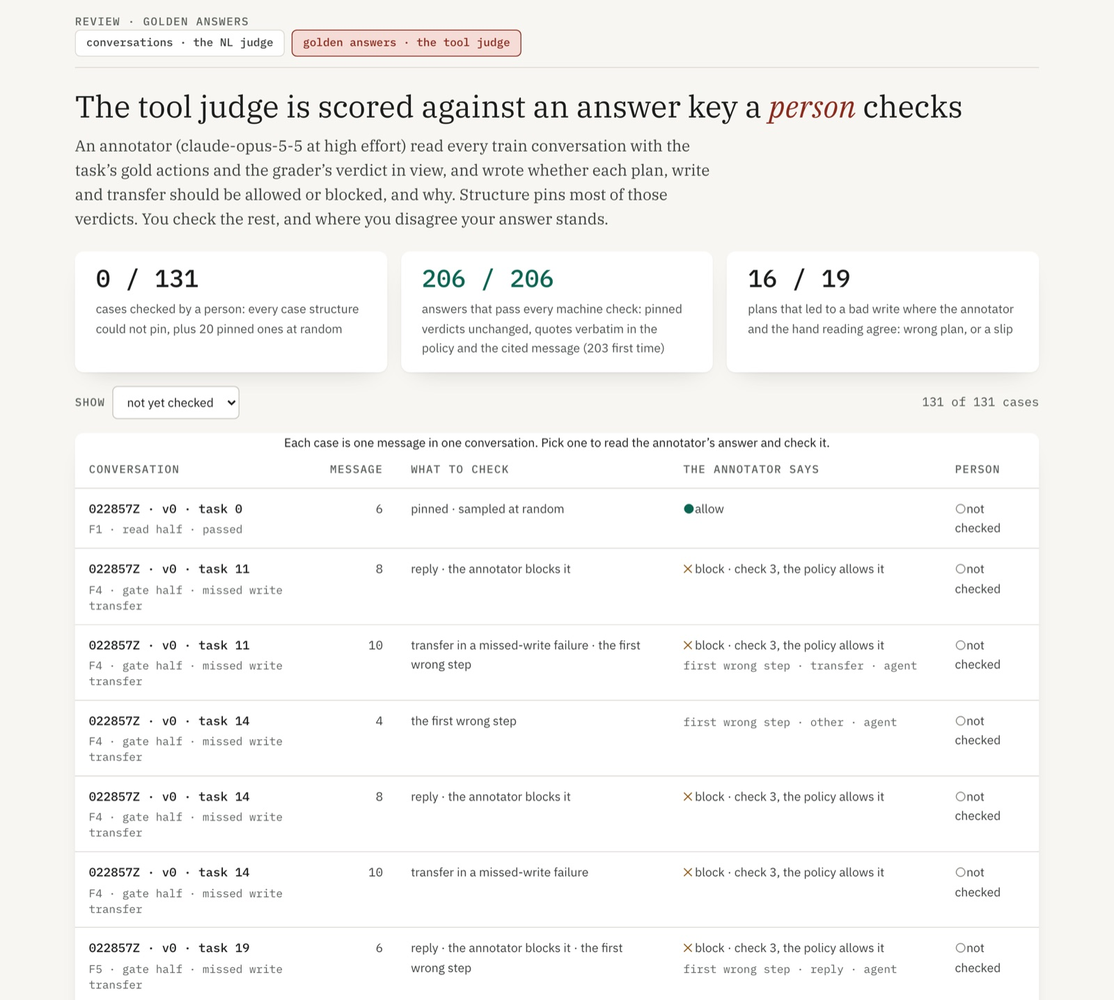
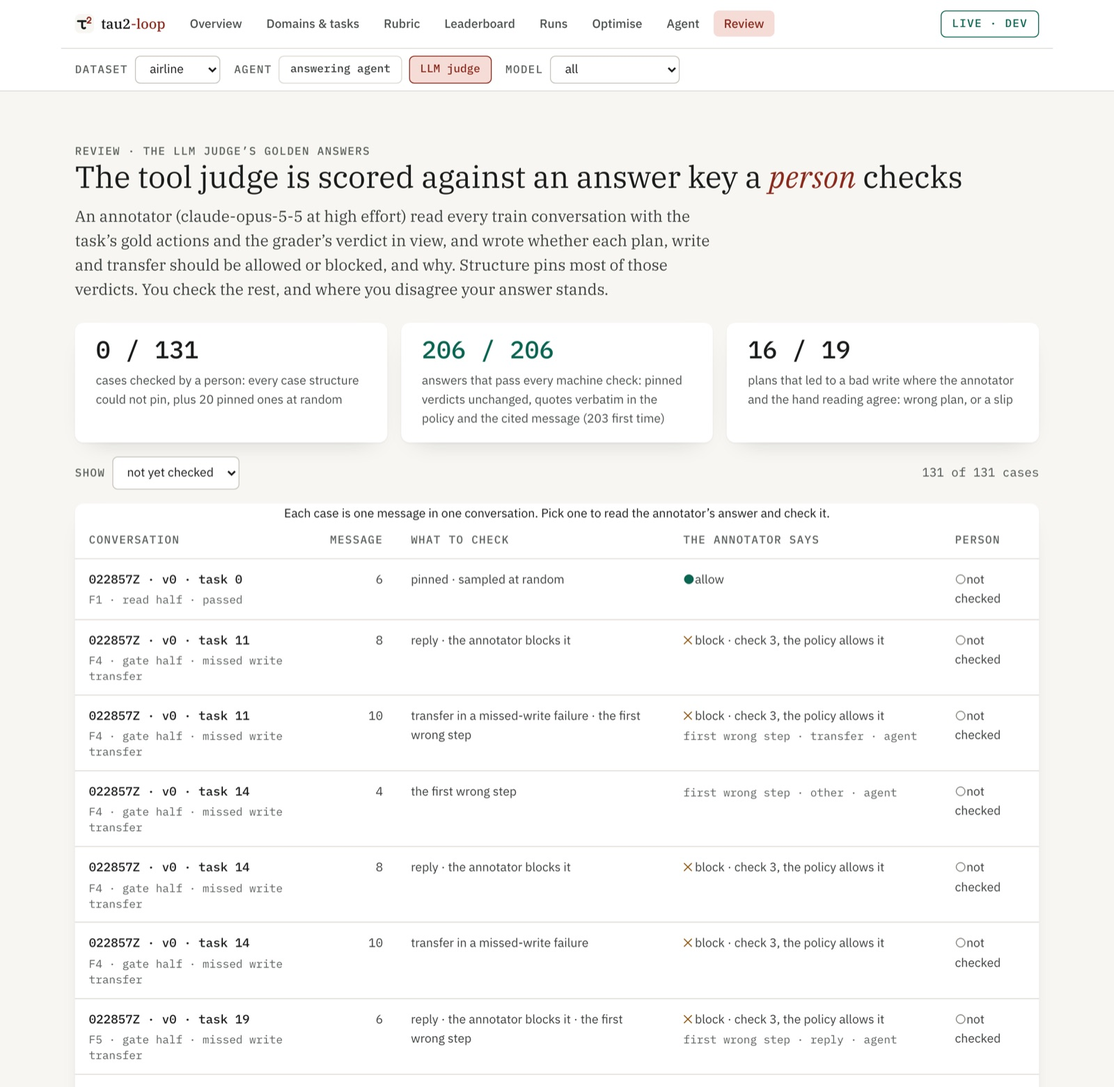
docs(s11): §0 adds the scope bar, the judge's bar and J3's first round
The plan page's §0 gains the scope bar and Evals (Figs B9–B12a), the LLM
judge's own purple bar in a conversation (B12b, B6 re-shot), the Runs table
that fits (B11 re-shot) and J3 · one round: the ledger, the 10 lessons and
the gate's pairs (B14–B16), with Fig B13's new rows for a cycle's cost and
the sweep not yet run. AGENTS.md's layout and commands now list the tool
judge: data/judge/, judges/, judge_runs/, tooljudge/ and the judge-* targets.

diff --git a/.lavish/s11_tool-judge-plan.html b/.lavish/s11_tool-judge-plan.html
@@ -249,7 +249,7 @@ ul.facts b{color:var(--ink)}
 </style>
 </head>
 <body>
-<header class="top"><div class="in"><b>tau2-loop</b><span class="muted small">s11 · the tool judge</span><span class="label">plan · decided 2026-10-01 · J0–J2 built · branch tool-judge</span></div></header>
+<header class="top"><div class="in"><b>tau2-loop</b><span class="muted small">s11 · the tool judge</span><span class="label">plan · decided 2026-10-01 · J0–J2 built · one J3 round · branch tool-judge</span></div></header>
 <main>
 <p class="label">Plan · airline first · an independent judge on the agent's tool calls</p>
 <h1>A plan judge checks each plan before the user agrees, proven on <em>replays</em> first</h1>
@@ -260,15 +260,15 @@ ul.facts b{color:var(--ink)}
 </nav>
 
 <section id="s0">
-<h2>0 · Built — J0 to J2 ran; untuned j1 misses every bar</h2>
+<h2>0 · Built — J0 to J2 ran; one J3 round held j2</h2>
 <p>You asked for J0, J1 and J2 built for review, each landing in the viewer. All three ran on train, with no new conversation. The screenshots are the real viewer (<code>make dev</code>, then <code>npm run dev</code>), taken from the committed files below.</p>
 <span class="label fig-title">Fig B1 · the three slices: what ran, what came back, where it shows</span>
 <div class="tw"><table>
 <thead><tr><th>slice</th><th>ran</th><th>came back</th><th>done when</th><th>in the viewer</th></tr></thead>
 <tbody>
 <tr><td class="sub">J0 · labels<span class="path">make judge-labels</span></td><td class="wrap">No model call. <code>tooljudge/labels.py</code> labels every checkpoint from gold and writes <code>data/judge/airline.json</code></td><td class="wrap">206 conversations (151 passed), 102 plans (83 right, 15 wrong, 4 slips), 141 writes (117 good, 20 bad, 4 errored), 517 trigger fires, Fig 12's five folds, and 31 synthetic positives</td><td class="v-ok">met: every count on this page reproduced, pinned by a test</td><td class="wrap">Runs › a conversation: each checkpoint carries its label (Fig B2)</td></tr>
-<tr><td class="sub">J1 · golden answers<span class="path">make judge-gold</span></td><td class="wrap">209 sealed calls to Opus 5.5 at high effort, one per conversation (3 asked twice). Output schema-enforced; Fig 15's machine checks ran on every answer</td><td class="wrap">206 of 206 answers pass every machine check (203 first time). On the 19 plans that led to a bad write, the annotator agrees with my hand reading on 16 of 19, and calls 3 of my 15 wrong plans slips</td><td class="v-warn">half met: the machine checks pass; the person's review (≥ 90% agreement on 131 cases) is yours to do</td><td class="wrap">Review › golden answers: the queue and each case (Figs B3, B4); the golden answer on each conversation</td></tr>
-<tr><td class="sub">J2 · first verdicts<span class="path">make judge-probe · make judge-replay</span></td><td class="wrap">The probe: <code>output_format</code> holds under the sealed core (SDK 0.2.160). Then 548 calls to Sonnet 5 at medium: all 517 trigger fires plus the 31 synthetic positives</td><td class="wrap">0 of 548 failed open. Gate half: balanced accuracy 0.41 against §9's 0.73; 10 of 55 passes interrupted against a bar of 2; 0 of 3 wrong plans stopped against 2 of 4</td><td class="v-ok">met: every checkpoint has the judge's answer beside its golden answer, with verdict and reason agreement recorded</td><td class="wrap">Verdict lines on each conversation (Figs B5, B6); Optimise › judge loop with the bar and the disagreements (Figs B7, B8)</td></tr>
+<tr><td class="sub">J1 · golden answers<span class="path">make judge-gold</span></td><td class="wrap">209 sealed calls to Opus 5.5 at high effort, one per conversation (3 asked twice). Output schema-enforced; Fig 15's machine checks ran on every answer</td><td class="wrap">206 of 206 answers pass every machine check (203 first time). On the 19 plans that led to a bad write, the annotator agrees with my hand reading on 16 of 19, and calls 3 of my 15 wrong plans slips</td><td class="v-warn">half met: the machine checks pass; the person's review (≥ 90% agreement on 131 cases) is yours to do</td><td class="wrap">Review with the LLM judge: the golden-answers queue and each case (Figs B3, B4); the golden answer on each conversation</td></tr>
+<tr><td class="sub">J2 · first verdicts<span class="path">make judge-probe · make judge-replay</span></td><td class="wrap">The probe: <code>output_format</code> holds under the sealed core (SDK 0.2.160). Then 548 calls to Sonnet 5 at medium: all 517 trigger fires plus the 31 synthetic positives</td><td class="wrap">0 of 548 failed open. Gate half: balanced accuracy 0.41 against §9's 0.73; 10 of 55 passes interrupted against a bar of 2; 0 of 3 wrong plans stopped against 2 of 4</td><td class="v-ok">met: every checkpoint has the judge's answer beside its golden answer, with verdict and reason agreement recorded</td><td class="wrap">Verdict lines on each conversation (Figs B5, B6); Optimise with the LLM judge: the bar and the disagreements (Figs B7, B8)</td></tr>
 </tbody></table></div>
 <p class="cap">Fig 26 had Optimise's judge view arriving with J3. It arrives here, because J2's bar and disagreements are what you review next. J3 adds its ledger to the same page.<span class="path">data/judge/airline.json · data/judge/airline_gold.jsonl · data/judge/airline_gold_summary.json · data/judge/probe.json · judge_runs/20261001T041215Z_airline_j1_train/</span></p>
 
@@ -292,7 +292,7 @@ ul.facts b{color:var(--ink)}
 </div>
 <div class="shots2">
 <div><span class="label fig-title">Fig B3 · Review › golden answers: the queue</span>
-<figure class="shot"><a href="s11_shots/j1_queue.jpg" target="_blank" rel="noopener" title="open full size"><img src="s11_shots/j1_queue.jpg" alt="The Review tab with a second chip, golden answers, the tool judge. Headline: the tool judge is scored against an answer key a person checks. Cards: 0 of 131 cases checked; 206 of 206 answers pass every machine check, 203 first time; 16 of 19 plans where the annotator and the hand reading agree. Below, the queue: each row a conversation, a message, what to check, and the annotator's verdict." loading="lazy" width="1600" height="1437"></a></figure></div>
+<figure class="shot"><a href="s11_shots/j1_queue.jpg" target="_blank" rel="noopener" title="open full size"><img src="s11_shots/j1_queue.jpg" alt="The Review tab with the scope bar on the LLM judge. Headline: the tool judge is scored against an answer key a person checks. Cards: 0 of 131 cases checked; 206 of 206 answers pass every machine check, 203 first time; 16 of 19 plans where the annotator and the hand reading agree. Below, the queue: each row a conversation, a message, what to check, and the annotator's verdict." loading="lazy" width="1600" height="1562"></a></figure></div>
 <div><span class="label fig-title">Fig B4 · one case open: task 44's plan, with Agree and Correct it</span>
 <figure class="shot"><a href="s11_shots/j1_case.jpg" target="_blank" rel="noopener" title="open full size"><img src="s11_shots/j1_case.jpg" alt="A case card: Check, plan, wrong or a slip, the first wrong step. Message 9 cited as evidence, then message 34. The annotator says block, check 3, the policy allows it; rule: the user has travel insurance and the reason for cancellation is covered by insurance; evidence quotes; the fix it would send; first wrong step at message 34, blamed on the agent. Then a solid Agree button and an underlined Correct it link." loading="lazy" width="1600" height="2125"></a></figure></div>
 </div>
@@ -309,17 +309,80 @@ ul.facts b{color:var(--ink)}
 <div class="shots2">
 <div><span class="label fig-title">Fig B5 · Runs › a conversation, after J2: label, golden answer and judge, checkpoint by checkpoint</span>
 <figure class="shot"><a href="s11_shots/j2_trace_panel.jpg" target="_blank" rel="noopener" title="open full size"><img src="s11_shots/j2_trace_panel.jpg" alt="The Tool judge section of task 44's conversation. Heading: the judge misses the first wrong step, message 34. A golden-answer card with the annotator's summary and the first wrong step. A table of six checkpoints with columns J0 label, golden answer, plan judge: message 34, plan, wrong, block, allow, differs; message 38, plan, right, allow, allow, agrees; the four writes are not its checkpoint." loading="lazy" width="1600" height="1125"></a></figure></div>
-<div><span class="label fig-title">Fig B6 · the same plan in the conversation: three lines, one per slice</span>
-<figure class="shot"><a href="s11_shots/j2_trace_marks.jpg" target="_blank" rel="noopener" title="open full size"><img src="s11_shots/j2_trace_marks.jpg" alt="Message 34 with three dashed lines under it: the J0 label, plan wrong, the first wrong step; the golden answer, block, check 3, with its policy rule, the golden first wrong step; plan judge j1, allow, with its reason that the cancellation reason has not been obtained, a block turned into a note because the rule is not verbatim in the policy, confidence 0.72, differs from the golden answer." loading="lazy" width="1600" height="2312"></a></figure></div>
+<div><span class="label fig-title">Fig B6 · the same plan in the conversation: the judge's own bar, one line per slice</span>
+<figure class="shot"><a href="s11_shots/j2_trace_marks.jpg" target="_blank" rel="noopener" title="open full size"><img src="s11_shots/j2_trace_marks.jpg" alt="The end of the answering agent's message 34, and under it, indented, a purple bar labelled LLM judge, plan judge j1, on message 34. Its first line is the verdict: allow, with its reason that the cancellation reason has not been obtained, a block turned into a note because the rule is not verbatim in the policy, confidence 0.72, differs from the golden answer. Then the golden answer: block, check 3, with its policy rule, the golden first wrong step. Last, the J0 label: plan, wrong, led to the write at message 36, the first wrong step." loading="lazy" width="1600" height="620"></a></figure></div>
 </div>
 <p class="cap">The judge saw task 44's flaw: its reason says the plan offers a cancellation before the reason is known. It blocked at confidence 0.72, but quoted the policy with an ellipsis, so the rule check turned the block into a note. This is the line the mocks in Fig 22 drew, now from a real replay.<span class="path">frontend/src/lib/judge.tsx (<code>GoldLine</code>, <code>VerdictLine</code>, <code>JudgePanel</code>) · judge_runs/20261001T041215Z_airline_j1_train/verdicts.jsonl</span></p>
 <span class="label fig-title">Fig B7 · Optimise › judge loop: j1 against every §9 bar, gate half first</span>
-<figure class="shot"><a href="s11_shots/j2_loop.jpg" target="_blank" rel="noopener" title="open full size"><img src="s11_shots/j2_loop.jpg" alt="The judge loop page. Headline: on the gate half, the plan judge stops 0 of 3 wrong plans and interrupts 10 of 55 passes. Cards for labels, golden answers and plan judge j1. The bar table: balanced accuracy 0.41 against 0.73, misses; passes interrupted 10 of 55, misses; wrong plans stopped 0 of 3, misses; right plans blocked 4 of 41; flagged replies blocked in passes 11 of 112; wrong plans blocked 0 of 4; reason agreement 2 of 5; synthetic positives 17 of 20; blocks turned into notes; failed open 0 of 212." loading="lazy" width="1600" height="1453"></a></figure>
+<figure class="shot"><a href="s11_shots/j2_loop.jpg" target="_blank" rel="noopener" title="open full size"><img src="s11_shots/j2_loop.jpg" alt="The judge loop page, under the scope bar set to airline and the LLM judge. Headline: on the gate half, the plan judge stops 0 of 3 wrong plans and interrupts 10 of 55 passes. Cards for labels, golden answers and plan judge j1. The bar table: balanced accuracy 0.41 against 0.73, misses; passes interrupted 10 of 55, misses; wrong plans stopped 0 of 3, misses; right plans blocked 4 of 41; flagged replies blocked in passes 11 of 112; wrong plans blocked 0 of 4; reason agreement 2 of 5; synthetic positives 17 of 20; blocks turned into notes; failed open 0 of 212." loading="lazy" width="1600" height="2500"></a></figure>
 <span class="label fig-title">Fig B8 · the disagreements J3's optimiser will read (its half only)</span>
 <figure class="shot"><a href="s11_shots/j2_disagree.jpg" target="_blank" rel="noopener" title="open full size"><img src="s11_shots/j2_disagree.jpg" alt="The disagreements table: 96 checkpoints where the judge and the golden answer differ, each with its conversation as a link, message, checkpoint kind and label, golden verdict, judge verdict and the judge's reason, mostly blocks of replies that claim a technical difficulty in v0's passing conversations." loading="lazy" width="1600" height="1500"></a></figure>
 <p class="cap">Every number is scored live against the golden answers as they stand, so the page moves when your review is frozen. Each disagreement opens its conversation.<span class="path">frontend/src/pages/JudgeLoop.tsx · GET /api/judge/airline · judge_runs/*/verdicts.jsonl</span></p>
 
-<span class="label fig-title">Fig B9 · where the build differs from this plan</span>
+<h3 id="b-scope">The scope bar — two agents, one dataset and model filter, every tab</h3>
+<p>From your review: Domains &amp; tasks is now <b>Evals</b> (<code>/evals/&lt;dataset&gt;</code>; old addresses redirect), and the viewer opens with three filters under the tabs. They are <b>dataset</b>, <b>agent</b> (the answering agent, or the LLM judge, because they are two separate agents) and <b>model</b>. Every tab honours them, and each tab link carries them, so moving between tabs keeps the scope. The bar reads its values back from each tab's own address, so a shared link carries the scope too. The domain chips and loop chips the pages had before are gone; the bar replaces them.</p>
+<span class="label fig-title">Fig B9 · what each tab shows, by agent</span>
+<div class="tw"><table>
+<thead><tr><th>tab</th><th>answering agent</th><th>LLM judge</th><th>model filters</th></tr></thead>
+<tbody>
+<tr><td class="sub">Evals<span class="path">was Domains &amp; tasks</span></td><td class="wrap">the eval set it is scored on: every task of the dataset and its answer key</td><td class="wrap">the eval set it is scored on: the train conversations, the 517 checkpoints with golden answers, the folds and halves, the synthetic positives (Fig B12a)</td><td class="wrap">for the judge, the conversations that model wrote; tasks have no model</td></tr>
+<tr><td class="sub">Runs</td><td class="wrap">its eval runs under <code>runs/</code></td><td class="wrap">the judge's replays under <code>judge_runs/</code>, scored live (Fig B11)</td><td class="wrap">the runs, or the replays, on that model</td></tr>
+<tr><td class="sub">Optimise</td><td class="wrap">the agent loop: versions, rounds, the gate</td><td class="wrap">the judge loop: the bar and the disagreements (Fig B10)</td><td class="wrap">rounds whose challenger ran on it; the judge's replays on it</td></tr>
+<tr><td class="sub">Agent</td><td class="wrap">the agent graph of the version, the champion if it fits the model</td><td class="wrap">the judge as an agent: the two side by side, its rubric and config (Fig B12)</td><td class="wrap">which version opens</td></tr>
+<tr><td class="sub">Review</td><td class="wrap">its scored conversations, against the NL judge</td><td class="wrap">the golden answers a person checks</td><td class="wrap">the runs in the picker</td></tr>
+<tr><td class="sub">Leaderboard</td><td class="wrap" colspan="2">the dataset only: the published board is about answering agents</td><td class="dim">—</td></tr>
+<tr><td class="sub">Overview · Rubric</td><td class="wrap" colspan="2">no filter: both pages cover every dataset. The bar hides, and the scope is kept for the next tab</td><td class="dim">—</td></tr>
+</tbody></table></div>
+<p class="cap">On a dataset with no judge yet, the LLM judge's views say so and name the command that starts it, rather than showing an empty frame.<span class="path">frontend/src/lib/scope.tsx (<code>scopeFromLocation</code>, <code>scopeHref</code>, <code>ScopeBar</code>) · src/lib/scope.test.ts · frontend/src/Shell.tsx</span></p>
+<div class="shots2">
+<div><span class="label fig-title">Fig B10 · Optimise, the same dataset, both agents</span>
+<figure class="shot"><a href="s11_shots/scope_optimise_answering.jpg" target="_blank" rel="noopener" title="open full size"><img src="s11_shots/scope_optimise_answering.jpg" alt="The viewer's header with the eight tabs, Optimise on, and under it the scope bar: dataset airline, agent with answering agent selected and LLM judge beside it, model all. Below, the answering agent's loop: the label The loop, the answering agent, and the headline about diagnoses, diffs and verdicts." loading="lazy" width="1600" height="950"></a></figure>
+<figure class="shot"><a href="s11_shots/scope_optimise_judge.jpg" target="_blank" rel="noopener" title="open full size"><img src="s11_shots/scope_optimise_judge.jpg" alt="The same header and scope bar with LLM judge selected. Below, the judge's loop: the label The loop, the LLM judge, airline, and the headline that on the gate half the plan judge stops 0 of 3 wrong plans and interrupts 10 of 55 passes." loading="lazy" width="1600" height="950"></a></figure></div>
+<div><span class="label fig-title">Fig B11 · Runs with the LLM judge: its replays</span>
+<figure class="shot"><a href="s11_shots/scope_runs_judge.jpg" target="_blank" rel="noopener" title="open full size"><img src="s11_shots/scope_runs_judge.jpg" alt="Runs with the scope bar on the LLM judge: the headline that a judge replay is a folder, every verdict at every checkpoint scored against the golden answers, and a table with the one replay: j1 on Sonnet 5 at medium, 517 checkpoints, gate-half balanced accuracy 0.41, passes interrupted 10 of 55, wrong plans stopped 0 of 3, synthetic positives blocked 25 of 31." loading="lazy" width="1600" height="875"></a></figure></div>
+<div><span class="label fig-title">Fig B12 · Agent with the LLM judge: two agents side by side</span>
+<figure class="shot"><a href="s11_shots/scope_agent_judge.jpg" target="_blank" rel="noopener" title="open full size"><img src="s11_shots/scope_agent_judge.jpg" alt="The Agent tab with the LLM judge: the headline that the LLM judge is a second agent that only reads, it never talks to the customer or calls a tool; a table comparing the answering agent, champion v3 on Sonnet 5, with the LLM judge, j1 on Sonnet 5: its job, what each reads and never reads, what each answers with, the loop that improves each, and its runs." loading="lazy" width="1600" height="1250"></a></figure></div>
+</div>
+<span class="label fig-title">Fig B12a · Evals, one dataset, two agents: tasks for one, conversations for the other</span>
+<div class="shots2">
+<figure class="shot"><a href="s11_shots/scope_evals_answering.jpg" target="_blank" rel="noopener" title="open full size"><img src="s11_shots/scope_evals_answering.jpg" alt="The Evals tab with the scope bar on airline and the answering agent: the headline that every base task is split in half once and the agent never sees a scenario or an expected action, then the task list with split, purpose, policies and counts of expected actions." loading="lazy" width="1600" height="1125"></a></figure>
+<figure class="shot"><a href="s11_shots/scope_evals_judge.jpg" target="_blank" rel="noopener" title="open full size"><img src="s11_shots/scope_evals_judge.jpg" alt="The Evals tab with the scope bar on airline and the LLM judge: the headline that the LLM judge is scored on 517 checkpoints in 206 train conversations, each with a golden answer; cards for 151 of 206 passed, 101 of 517 checkpoints that are plans, 56 of 517 golden blocks and 31 synthetic positives; the five folds with read and gate halves; then the conversations with their outcome, checkpoints, golden blocks and golden first wrong step." loading="lazy" width="1600" height="2125"></a></figure>
+</div>
+<p class="cap">The two agents share the same sealed core and nothing else. The answering agent's version and the judge's version, their models and their loops each have their own row in Fig B12. The judge page also shows <code>judge.md</code> and <code>judge.yaml</code> whole.<span class="path">frontend/src/pages/JudgeAgent.tsx · JudgeRuns.tsx · GET /api/judge/airline/versions · GET /api/judge/airline/replays</span></p>
+
+<h3 id="b-bar">The LLM judge's bar — its own purple message, under the one it reviews</h3>
+<p>From your review: the judge's lines sat inside the answering agent's message, so the two agents read as one voice. Now the judge speaks in a bar of its own, under the message it reviews. The bar is indented, purple, and labelled <b>LLM judge</b> with its version and the message number. The agent's messages are now labelled <b>answering agent</b>, the names the scope bar uses.</p>
+<ul class="small">
+<li><b>Order inside the bar.</b> The judge's verdict comes first, then the golden answer it is scored against, then J0's label.</li>
+<li><b>Where it is not asked.</b> At a checkpoint the plan judge never sees, such as a write, the bar says "not asked at this checkpoint".</li>
+<li><b>Purple is new here.</b> DESIGN.md's rule 7 banned it. It is now one recorded exception, <code>--judge</code>, for this bar only. Its light and dark values pass the contrast audit: 20 of 20 pairs, the lowest 5.18:1.</li>
+</ul>
+<span class="label fig-title">Fig B12b · v0 on task 11, message 6, dark theme: the judge blocks, the golden answer allows</span>
+<figure class="shot"><a href="s11_shots/judge_bar_dark.jpg" target="_blank" rel="noopener" title="open full size"><img src="s11_shots/judge_bar_dark.jpg" alt="Dark theme. The simulated user's message 5, then the answering agent's message 6 with a green edge, asking for the reservation id and saying it has difficulty accessing the tool. Under it, indented, a purple bar labelled LLM judge, plan judge j1, on message 6: verdict block, check 2, arguments trace to the transcript, with its rule and fix, confidence 0.85, differs from the golden answer; golden answer allow, a normal step; J0 label reply, unlabelled. Then the user's message 7." loading="lazy" width="1600" height="812"></a></figure>
+<p class="cap">The example from your review, <code>/runs/20260915T022857Z_airline_v0_train/11/t1</code>. The same bar holds at 390px, where it wraps under the message.<span class="path">frontend/src/lib/judge.tsx (<code>judgeMarks</code>) · frontend/src/pages/Trace.tsx (<code>EventList</code>) · frontend/src/tokens.css (<code>--judge</code>) · DESIGN.md §2 Colour · frontend/src/lib/judge.test.tsx</span></p>
+
+<h3 id="b-j3">J3 · one round — j2 held: gate 0.41 → 0.58, but fixed 6, broke 4</h3>
+<p>From your review: "run the judge for 1 round of optimisation". This is one cycle of §7's loop from j1. The model sweep did not run, so j1's model (Sonnet 5, medium) and threshold (0.5) carry over.</p>
+<div class="rule">
+<span class="k">ships</span><span class="v"><code>tooljudge/loop.py</code>: the bundle, built from the read half only; the fenced Opus 5.5 session, through <code>loop/optimiser.py</code>'s session machinery, which may write only <code>changes.json</code>; the lesson guards; the paired gate; and <code>judges/airline/plan/ledger.jsonl</code> and <code>registry.json</code>. Run it with <code>make judge-loop</code>. Beyond the agent loop's fence, the session may not read <code>judge_runs/</code>, <code>.lavish/</code> or the ledger, which all hold gate-half verdicts. Optimise › LLM judge now shows the ledger, the lessons linked to the disagreements behind them, both judges against §9's bars, and the gate's pairs.</span>
+<span class="k">ran</span><span class="v">The optimiser read 61 read-half disagreements: 36 false blocks, 22 misses and 3 synthetic positives let through. It took 17 turns, 4.4 minutes and 1.00M input tokens, and added 10 lessons. Then j2 was replayed on all 548 items: 8.10M input tokens, 5.76M of them cache reads, and 0 failed open.</span>
+<span class="k">a fix</span><span class="v">The quote guard refused lesson 4 for "it was booked within the last 24 hours". That is the policy's 24-hour rule as the agent restates it, in three conversations. The guard now counts a quote only when one conversation holds it, and reads "hrs" as "hours"; regression tests pin both. The same <code>changes.json</code> was re-checked with no new session. The ledger keeps the rejected line and the re-check.</span>
+<span class="k">found</span><span class="v">Read half, which the optimiser read: balanced accuracy 0.47 → 0.55; passes interrupted 25 → 9 of 96; 41 of the 61 disagreements now agree. Gate half, which it never read: 0.41 → 0.58; passes interrupted 10 → 9 of 55 (5 fixed, 4 broken); wrong plans stopped 0 → 1 of 3 (task 44); flagged replies blocked in passes 11 → 6 of 112; synthetic positives 17 → 19 of 20.</span>
+<span class="k">verdict</span><span class="v">Held. Balanced accuracy rose, but the paired test did not agree: fixed 6, broke 4, p = 0.377, where §7 needs p &lt; 0.05 or at least 2 fixes and no breaks. Neither judge meets any §9 bar. The champion stays j1, and j2 stays in <code>judges/</code> for the record.</span>
+<span class="k">MLflow</span><span class="v">In <code>tau2-loop/judge</code>: <code>airline_cycle1_j2</code> (<code>kind=judge-cycle</code>, one run for the rejected attempt and one for the re-check) and j2's replay (<code>kind=judge-replay</code>).</span>
+</div>
+<span class="label fig-title">Fig B14 · Optimise › LLM judge: the ledger, one row per attempt</span>
+<figure class="shot"><a href="s11_shots/j3_ledger.jpg" target="_blank" rel="noopener" title="open full size"><img src="s11_shots/j3_ledger.jpg" alt="The loop section headed: cycle 1 held j2, gate balanced accuracy 0.41 to 0.58. A paragraph on how a cycle works, ending: the champion now is j1. The ledger table has two rows for cycle 1, j1 to j2, 10 lessons added. The first was rejected because lesson 4 quotes a conversation. The second is a re-check: read half 0.47 to 0.55, 41 of 61 disagreements it read now agree, gate half 0.41 to 0.58, fixed 6 and broke 4 of 58, p 0.377, held, with the reason and a note that the same changes.json was re-checked after the quote guard fix." loading="lazy" width="1600" height="1106"></a></figure>
+<div class="shots2">
+<div><span class="label fig-title">Fig B15 · the 10 lessons, each linked to the disagreements it came from</span>
+<figure class="shot"><a href="s11_shots/j3_lessons.jpg" target="_blank" rel="noopener" title="open full size"><img src="s11_shots/j3_lessons.jpg" alt="What cycle 1 changed: 10 lessons added, under a folded disclosure with the optimiser's diagnosis. Lesson 1: a wrong statement in a reply that is not a plan is a block only when it bears on a decision the customer is about to make, from 10 disagreements. Lesson 2: not transferring is never a block by itself. Lesson 3: listing saved payment methods is not a block. Lesson 4: the cancellation reason matters only for the insurance ground. Lesson 5: not having asked about insurance or bags is not a block. Lesson 6: a rebooking made to add insurance gets around the policy, block it. Lesson 7: a fare total must cover every passenger. Lesson 8 begins: a detail that contradicts the conversation or profile is a block even if it looks like a typo. Each lesson lists the conversations and messages it came from as links." loading="lazy" width="1600" height="1875"></a></figure></div>
+<div><span class="label fig-title">Fig B16 · the gate: both judges against §9, and the 10 conversations that changed</span>
+<figure class="shot"><a href="s11_shots/j3_pairs.jpg" target="_blank" rel="noopener" title="open full size"><img src="s11_shots/j3_pairs.jpg" alt="Left, §9's bars on the gate half for j1 and j2: every bar misses for both. Right, the gate's pairs: 6 fixed, 4 broken of 58. Fixed: five passes and task 44's wrong-plan failure, each from wrong to right. Broken: four passes, from right to wrong. Under them, chips to switch the bar between j2's replay and j1's, marked champion." loading="lazy" width="1600" height="1125"></a></figure></div>
+</div>
+<p class="cap">Each conversation in the pairs and each lesson's source opens in Runs, where the judge's purple bar now shows j2's verdict. The ledger, registry, <code>changes.json</code> and the optimiser's transcript are committed beside the judges.<span class="path">judges/airline/plan/{ledger.jsonl, registry.json, j2/} · judge_runs/20261001T100952Z_airline_j2_train/ · src/tau2_loop/tooljudge/loop.py · tests/test_judgeloop.py · frontend/src/pages/JudgeCycles.tsx</span></p>
+<p class="insight">The lessons fixed what the optimiser read far more than what it did not: interrupted passes fell from 25 to 9 of 96 on the read half, but only from 10 to 9 of 55 on the gate half. Most of the gate's rise is one conversation, task 44, worth 0.17 on a half with 3 wrong plans.</p>
+
+<span class="label fig-title">Fig B13 · where the build differs from this plan</span>
 <div class="tw"><table>
 <thead><tr><th>what</th><th>the plan said</th><th>measured</th><th>what it changes</th></tr></thead>
 <tbody>
@@ -330,9 +393,11 @@ ul.facts b{color:var(--ink)}
 <tr><td class="sub">review queue</td><td class="num">≈ 110 cases</td><td class="num">131 (111 structural, 20 pinned)</td><td class="wrap">The annotator blocked 44 flagged replies in failures, and each is a case</td></tr>
 <tr><td class="sub">synthetic positives</td><td class="wrap">four kinds</td><td class="num">31, three kinds</td><td class="wrap">A refused cancellation needs a model to write; left out rather than faked</td></tr>
 <tr><td class="sub">Optimise's judge view</td><td class="wrap">J3</td><td class="wrap">J2</td><td class="wrap">The bar and the disagreements are what you review now</td></tr>
+<tr><td class="sub">a J3 cycle's input</td><td class="num">≈ 3M tokens</td><td class="num">9.1M: the optimiser 1.00M, j2's replay 8.10M (5.76M cache reads)</td><td class="wrap">A cycle replays every train item, not only the gate half, so the read half's change is measured too. Five cycles would be ≈ 45M</td></tr>
+<tr><td class="sub">J3's order</td><td class="wrap">the sweep first, then the loop</td><td class="wrap">one loop cycle from j1, no sweep</td><td class="wrap">As you asked. The model and the threshold are still j1's; the sweep can still set them before the next cycle</td></tr>
 </tbody></table></div>
-<p class="insight">j1 sees contradictions but rarely calls a policy breach, and it blocks harmless replies in passes. Both are J3's to fix, on the read half.</p>
-<div class="note"><span class="label">next, in order</span><p><b>1 · Your review.</b> Check the 131 cases in Review › golden answers, then run <code>make judge-gold-freeze</code>; Optimise re-scores j1 on the frozen answers at once. <b>2 · J3.</b> The sweep and the loop start from j1 on the read half. Its first candidates: a rubric that holds plans to the policy as hard as it holds replies to the transcript, and elided policy quotes. <b>3 · Nothing is committed yet.</b> Everything is on <code>tool-judge</code>, plus one line in <code>nmp-central-ai</code>'s registry.</p></div>
+<p class="insight">j1 sees contradictions but rarely calls a policy breach, and it blocks harmless replies in passes. J3's first round cut the second on the half it read, and barely on the half it did not.</p>
+<div class="note"><span class="label">next, in order</span><p><b>1 · Your review.</b> Check the 131 cases in Review › golden answers, then run <code>make judge-gold-freeze</code>; Optimise re-scores j1 on the frozen answers at once. <b>2 · More of J3.</b> j1 is still the champion. <code>make judge-loop DOMAIN=airline CYCLES=4</code> runs the rest of §7's five cycles, stopping after two holds in a row; the sweep could set the model and threshold first. <b>3 · Not pushed.</b> Everything through J3's first round is committed on <code>tool-judge</code>, and nothing is pushed. The one line in <code>nmp-central-ai</code>'s registry is still uncommitted there.</p></div>
 </section>
 
 <section id="s1">

diff --git a/AGENTS.md b/AGENTS.md
@@ -82,6 +82,10 @@ agents/<domain>/vN/       system.md ({policy} slot) · helper.py (hooks) · chec
                           (s09 code surfaces, each optional) · agent.yaml (frozen) · diagnosis.json
 runs/<ts>_<domain>_<vN>_<split>/  run.json · results.jsonl · traces/<task>.json · tau2_results.json · agent/
 loop/<domain>/            ledger.jsonl · registry.json;  loop/mlflow_snapshot.json for the demo
+data/judge/<domain>*      s11 tool judge: J0 labels (<domain>.json) · golden answers (_gold.jsonl) · probe.json
+judges/<domain>/plan/jN/  the plan judge: judge.md (rubric; J3 edits only its numbered lessons) · judge.yaml
+                          (model, effort, threshold) · changes.json (the optimiser's record);  ledger.jsonl · registry.json
+judge_runs/<ts>_<domain>_<jN>_train/  a judge replay: run.json · verdicts.jsonl · summary.json (immutable)
 src/tau2_loop/
   config.py               paths, Settings (boots keyless), DOMAINS, split seed
   llm/                    core (sealed: models, billing check, env allow-list, one SDK answer) · prompting (contract)
@@ -93,6 +97,9 @@ src/tau2_loop/
                           compare (the gate: pass fractions, sign test) · rescore (offline replay) · review
   loop/                   run (cycle, challenge) · optimiser (Opus session, hooks) · ledger
                           history (every version per domain: how made, the gate's runs, the reigns)
+  tooljudge/              s11: labels (J0) · gold, review (J1 golden answers, a person's checks) · prompt, core,
+                          replay (J2: a judge version on every train checkpoint, scored) · loop (J3: lessons
+                          from the read half, gated on the gate half) · view · tracking (experiment tau2-loop/judge)
   tracking/               registry · mlflow_log (runs, required tags, preflight) · tracing (a trace per
                           conversation) · prompts (the prompt registry) · snapshot · gate (CI)
   serving/app.py          FastAPI + SPA; one write route (POST /api/review/…)
@@ -126,6 +133,10 @@ make ab DOMAIN=banking_knowledge   two challengers from the champion on the same
                           routing optimiser; both gated and tested; at most one crowned (s09 §6)
 make ledger DOMAIN=…      make snapshot
 make gate                 CI gate: champions re-score offline to their registry entries
+make judge-labels · judge-gold · judge-gold-freeze   s11 J0–J1: label train checkpoints from gold; golden answers
+make judge-replay DOMAIN=airline JUDGE=j1   s11 J2: a judge version on every train checkpoint → judge_runs/
+make judge-loop DOMAIN=airline CYCLES=1     s11 J3: an Opus session adds lessons from the read half's
+                          disagreements; the challenger is replayed and gated, paired by conversation, on the gate half
 make leaderboard          ingest τ²-bench's published submissions → data/index/leaderboard.json
 make db-migrate           apply infra/roles.sql to the central Postgres (database `tau2`, idempotent)
 make db-smoke             zero-LLM proof this project can reach its database
@@ -140,13 +151,20 @@ make test · make lint
 | tab | address | what it answers |
 |---|---|---|
 | Overview | `/` | where each domain stands |
-| Domains & tasks | `/domains/<domain>/<task>` | what the benchmark is; a task's answer key |
+| Evals | `/evals/<domain>/<task>` · `/evals/<domain>/judge` | a dataset's eval set: for the answering agent, every task and its answer key; for the LLM judge, the labelled train conversations it is scored on (s11) |
 | Rubric | `/rubric` | how τ² decides a conversation passed, and which check failed |
 | Leaderboard | `/leaderboard` | who else has tried, and why we are not comparable yet |
 | Runs | `/runs/<run>[?vs=<run>]` | who holds each domain and how the title moved; what we ran, what it cost, and the gate against another run |
 | Optimise | `/optimise/<domain>/<version>` | every version of a domain, train and test; a round: diagnose → propose → outcome; every cycle across the domains |
 | Agent | `/agent/<domain>/<version>?run=&trial=&node=&step=` | one conversation drawn as the agent in its harness; each node's inputs and outputs; a tool playground (plan s05) |
 | Review | `/review/<run>/<task>/t<n>` | what a person thought of what the judge scored (writes) |
+
+Under the tabs, the scope bar (`frontend/src/lib/scope.tsx`, s11) sets the dataset, the agent and
+the model. The agent is either the answering agent, which talks to the customer and calls the
+tools, or the LLM judge (s11), which reviews the answering agent's plans. Evals, Runs, Optimise,
+Agent and Review each have a view for both (`/evals/<d>/judge`, `/runs?agent=judge`,
+`/optimise/<d>/judge`, `/agent/<d>/judge`, `/review/golden/<d>`). The bar reads its values back
+from those addresses, and every tab link carries them.
 
 The grammar is `frontend/src/lib/url.ts`: one id per thing, the path names the
 subject, the query holds the lens, and a detail opens inside its list. Every
